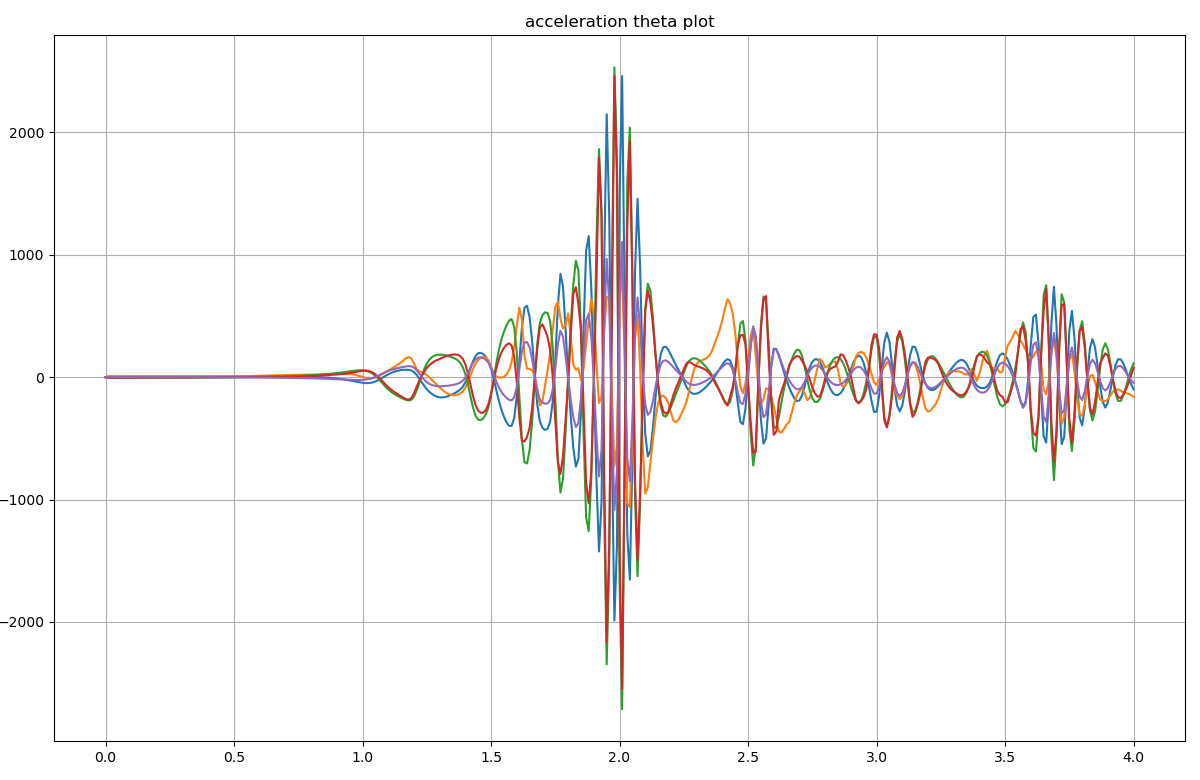
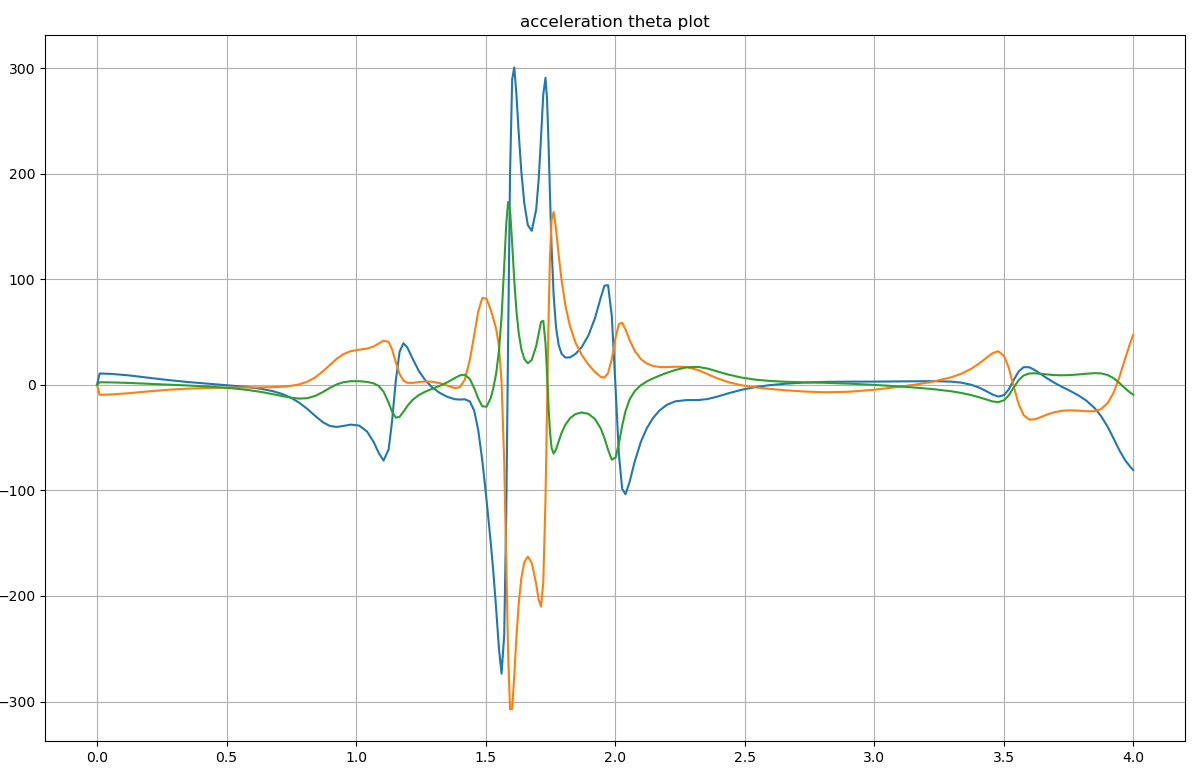
Pre-spatial operator refactor

diff --git a/src/tests_utils.cpp b/src/tests_utils.cpp
@@ -64,7 +64,7 @@ void test_n_body_system(const int n) {
 }
 
 void test_three_body_from_course() {
-  std::array<double, 3> array = {pi / 4, -pi / 4, pi / 4};
+  std::array<double, 3> array = {pi, -pi / 4, pi / 6};
   SystemOfBodies system;
   for (int i = 0; i < 3; ++i) {
     auto rec = std::make_unique<Rectangle_computed>(2.0, 0.1, 0.2, 8.0);
@@ -146,7 +146,7 @@ Vector2 RotatePointAroundPivot(Vector2 point, Vector2 pivot, float angle) {
 
 void test_tree_dynamics() {
 
-  std::array<double, 5> array_hinge_state = {pi / 4, -pi / 4, pi / 4, pi / 2,
+  std::array<double, 5> array_hinge_state = {pi / 6, -pi / 5, pi / 7, pi / 2,
                                              pi / 3};
   auto rec = Rectangle_computed(2.0, 0.1, 0.2, 8.0);
 

diff --git a/src/main.cpp b/src/main.cpp
@@ -4,13 +4,13 @@ int main() {
   constexpr int n{100};
 
   // test_single_body_multi_dof();
-  // test_three_body_from_course();
+  test_three_body_from_course();
   // test_n_body_system(n);
   // test_inverse_dynamics_three_body_from_course();
   // test_dense();
   // test_three_body_from_course_with_viz();
   // test_raylib();
-  test_tree_dynamics();
+  // test_tree_dynamics();
 
   return 0;
 }

diff --git a/src/system_of_bodies.h b/src/system_of_bodies.h
@@ -39,7 +39,7 @@ private:
   std::vector<arma::span> span_k2_;
   bool spans_initialized{false};
 
-  // Sorward dynamic specific attributes
+  // Forward dynamic specific attributes
   struct forward_parameters {
     std::vector<arma::mat> P_plus;
     std::vector<arma::vec> J_fractal_plus;
